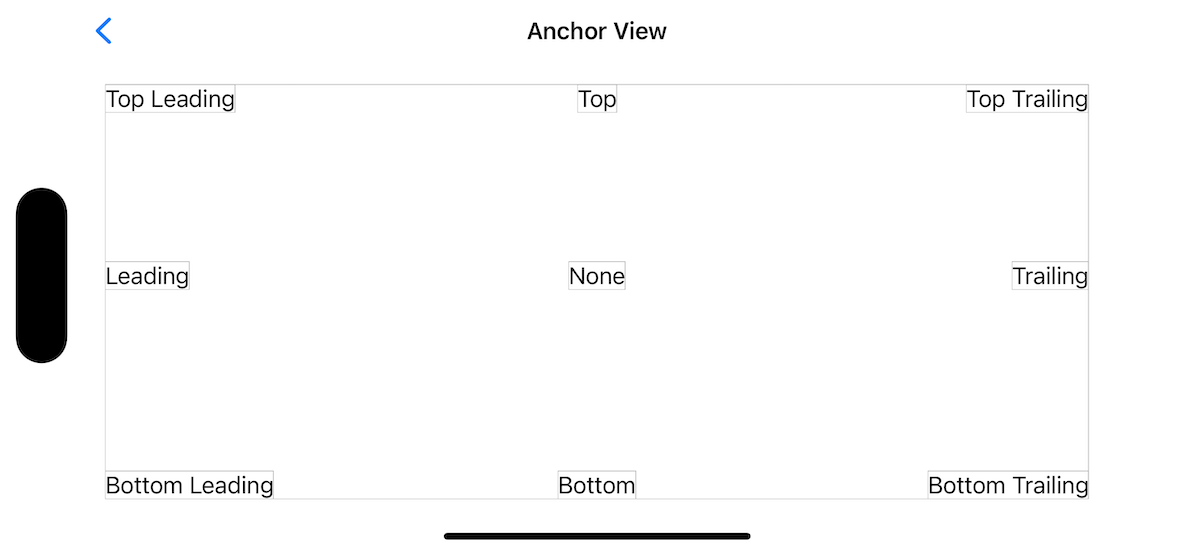
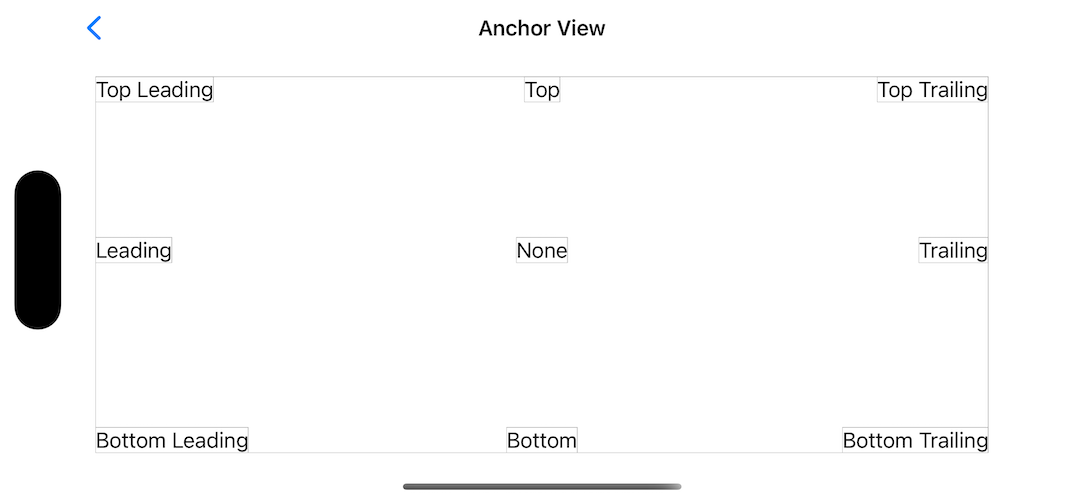
Update README.md.

diff --git a/README.md b/README.md
@@ -55,9 +55,9 @@ The `LMRowView` and `LMColumnView` classes arrange subviews in a horizontal or v
 
 Horizontal alignment options include `fill`, `leading`, `trailing`, and `center`. Vertical alignment options include `fill`, `top`, `bottom`, and `center`. Both values are set to `fill` by default, which pins subviews along both of the box view's axes. Other values pin subviews to a single edge or center them along a given axis:
 
-<img src="README/horizontal-alignment.png" width="683px"/>
+<img src="README/horizontal-alignment.png" width="250px"/>
 <br/>
-<img src="README/vertical-alignment.png" width="683px"/>
+<img src="README/vertical-alignment.png" width="542px"/>
 
 The `spacing` property defines the amount of space reserved between subviews. For row views, this refers to the horizontal space between the subviews; for column views, it refers to the vertical space. If unspecified, a default (system-dependent) value will be used.
 
@@ -79,7 +79,7 @@ Note that explicitly defined width and height values take priority over weights.
 ## LMAnchorView
 The `LMAnchorView` class optionally anchors subviews to one or more of its own edges. For [example](LimaTest/AnchorViewController.swift): 
 
-<img src="README/anchor-view.png" width="597px"/>
+<img src="README/anchor-view.png" width="542px"/>
 
 Anchors are specified as an option set that defines the edges to which the view will be anchored within the parent. If no anchor is specified for a given dimension, the subview will be centered within the parent for that dimension.
 
